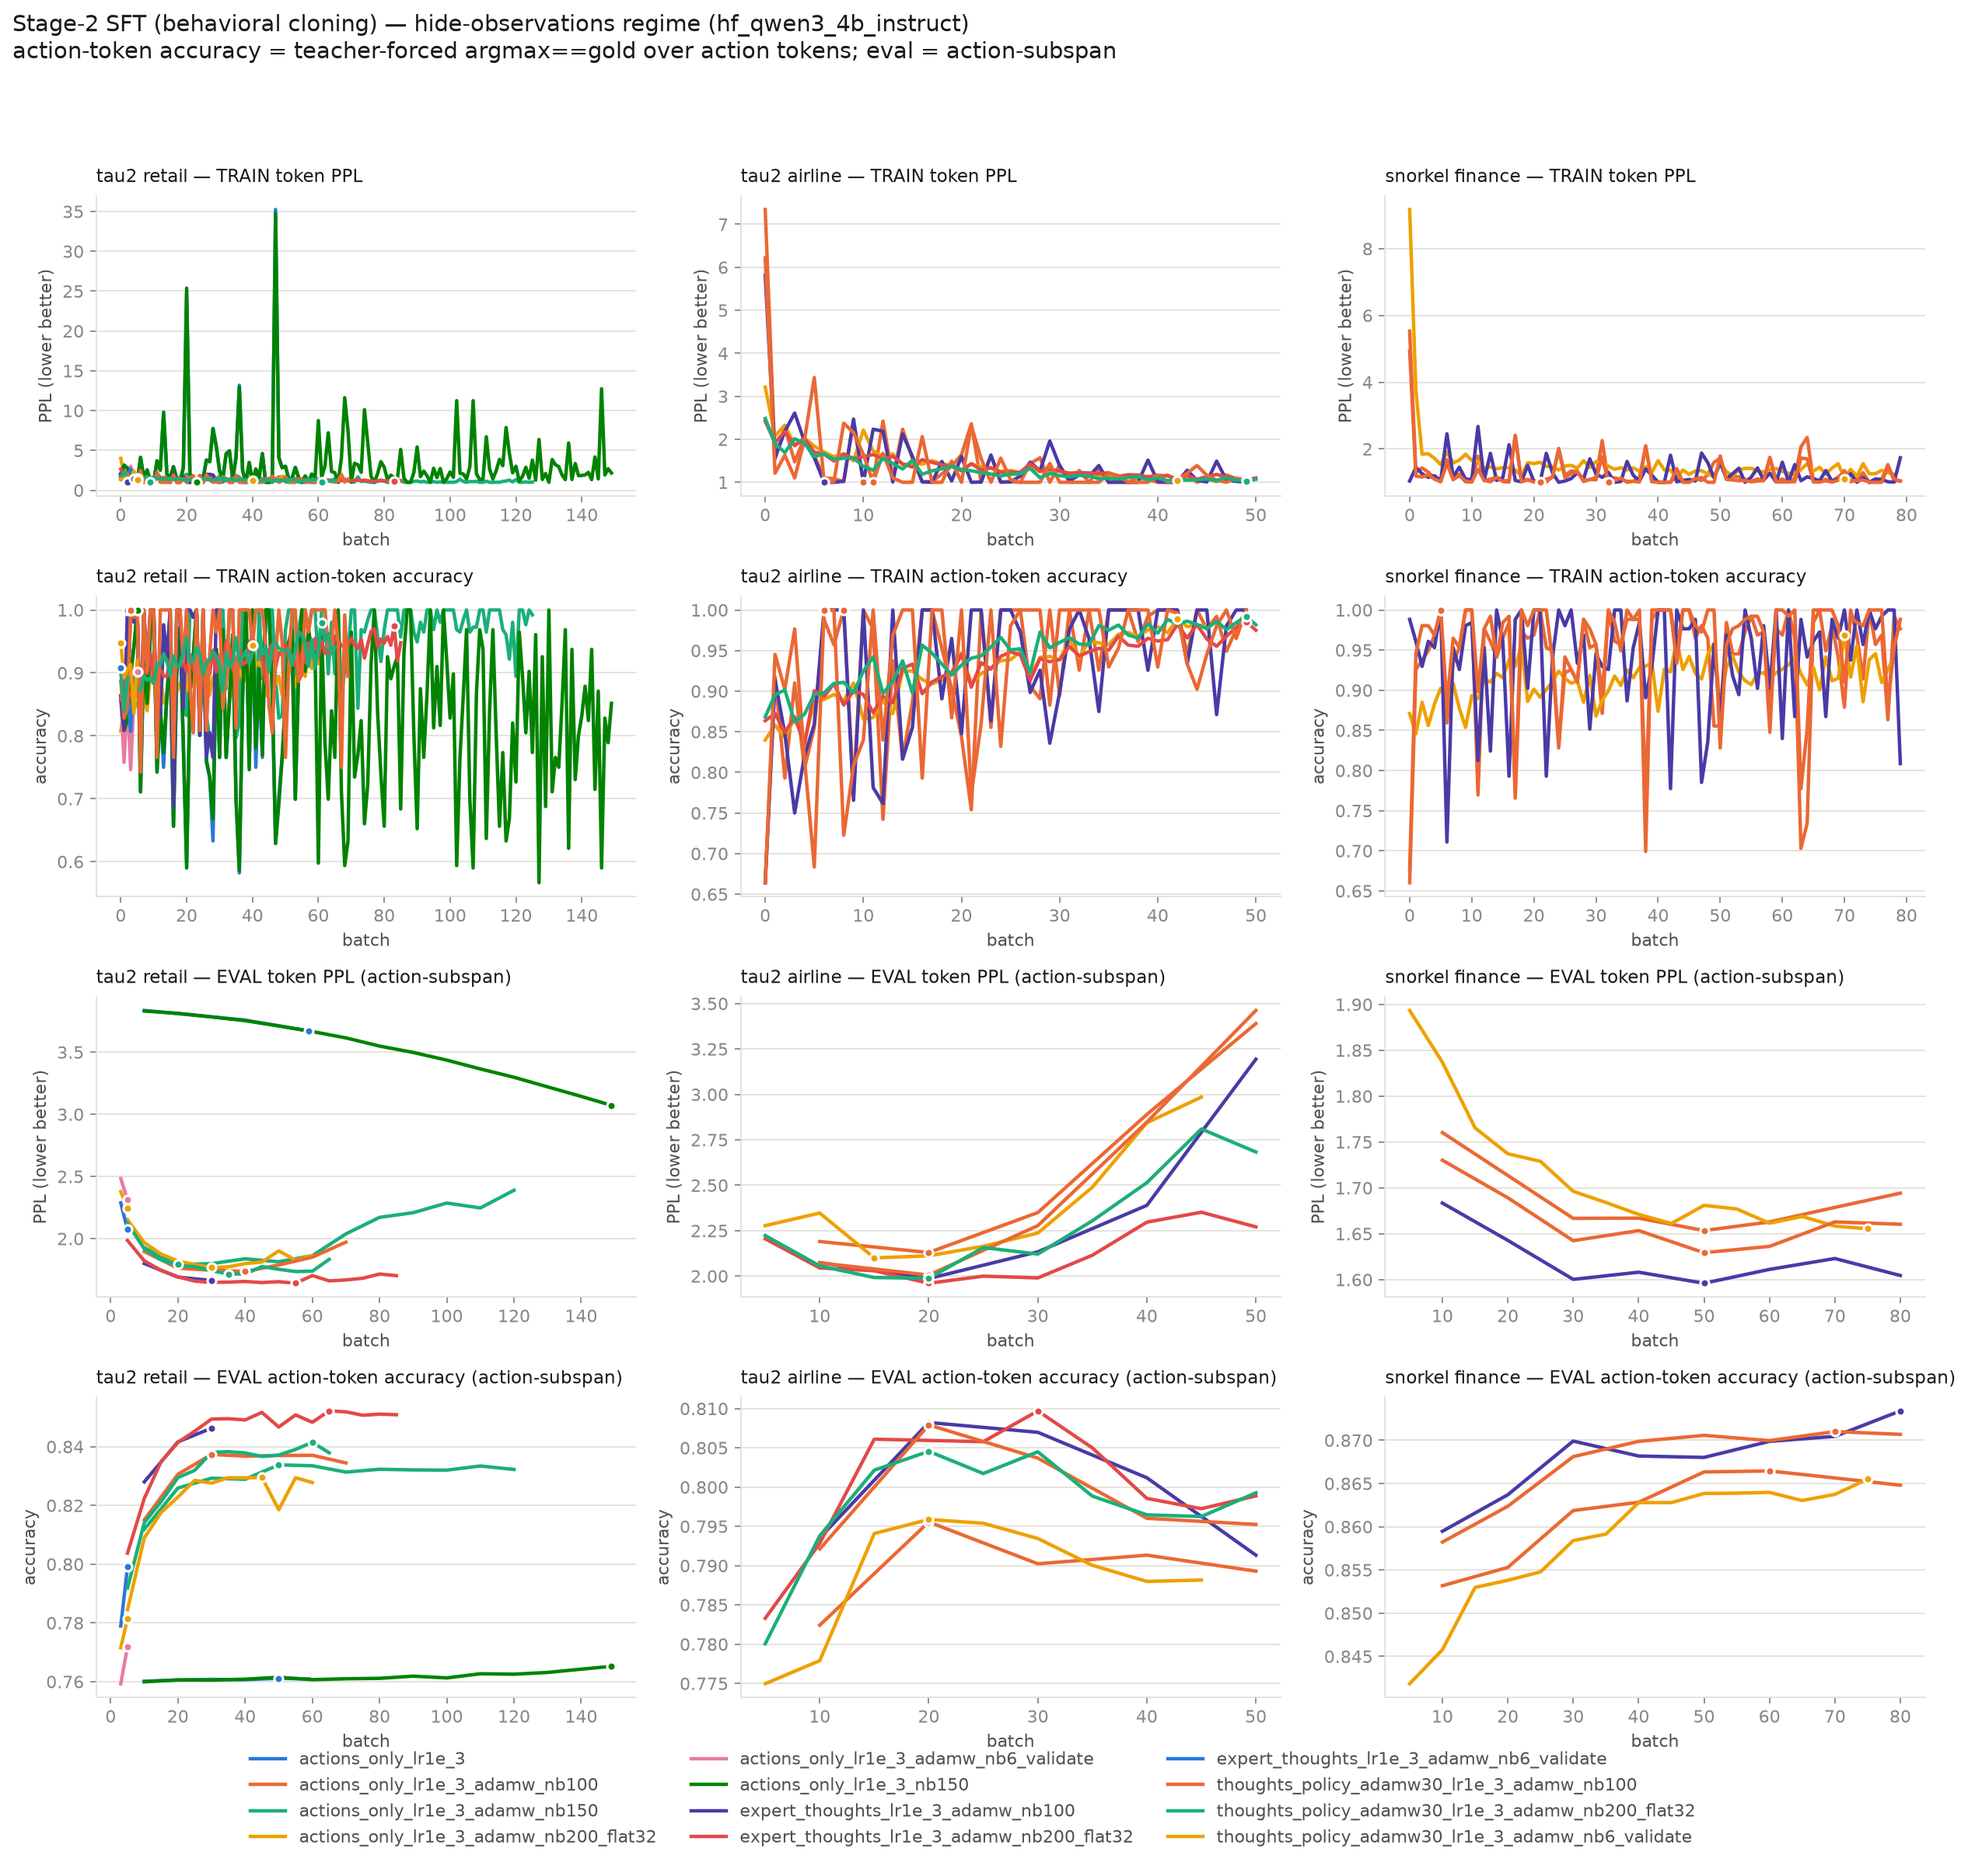
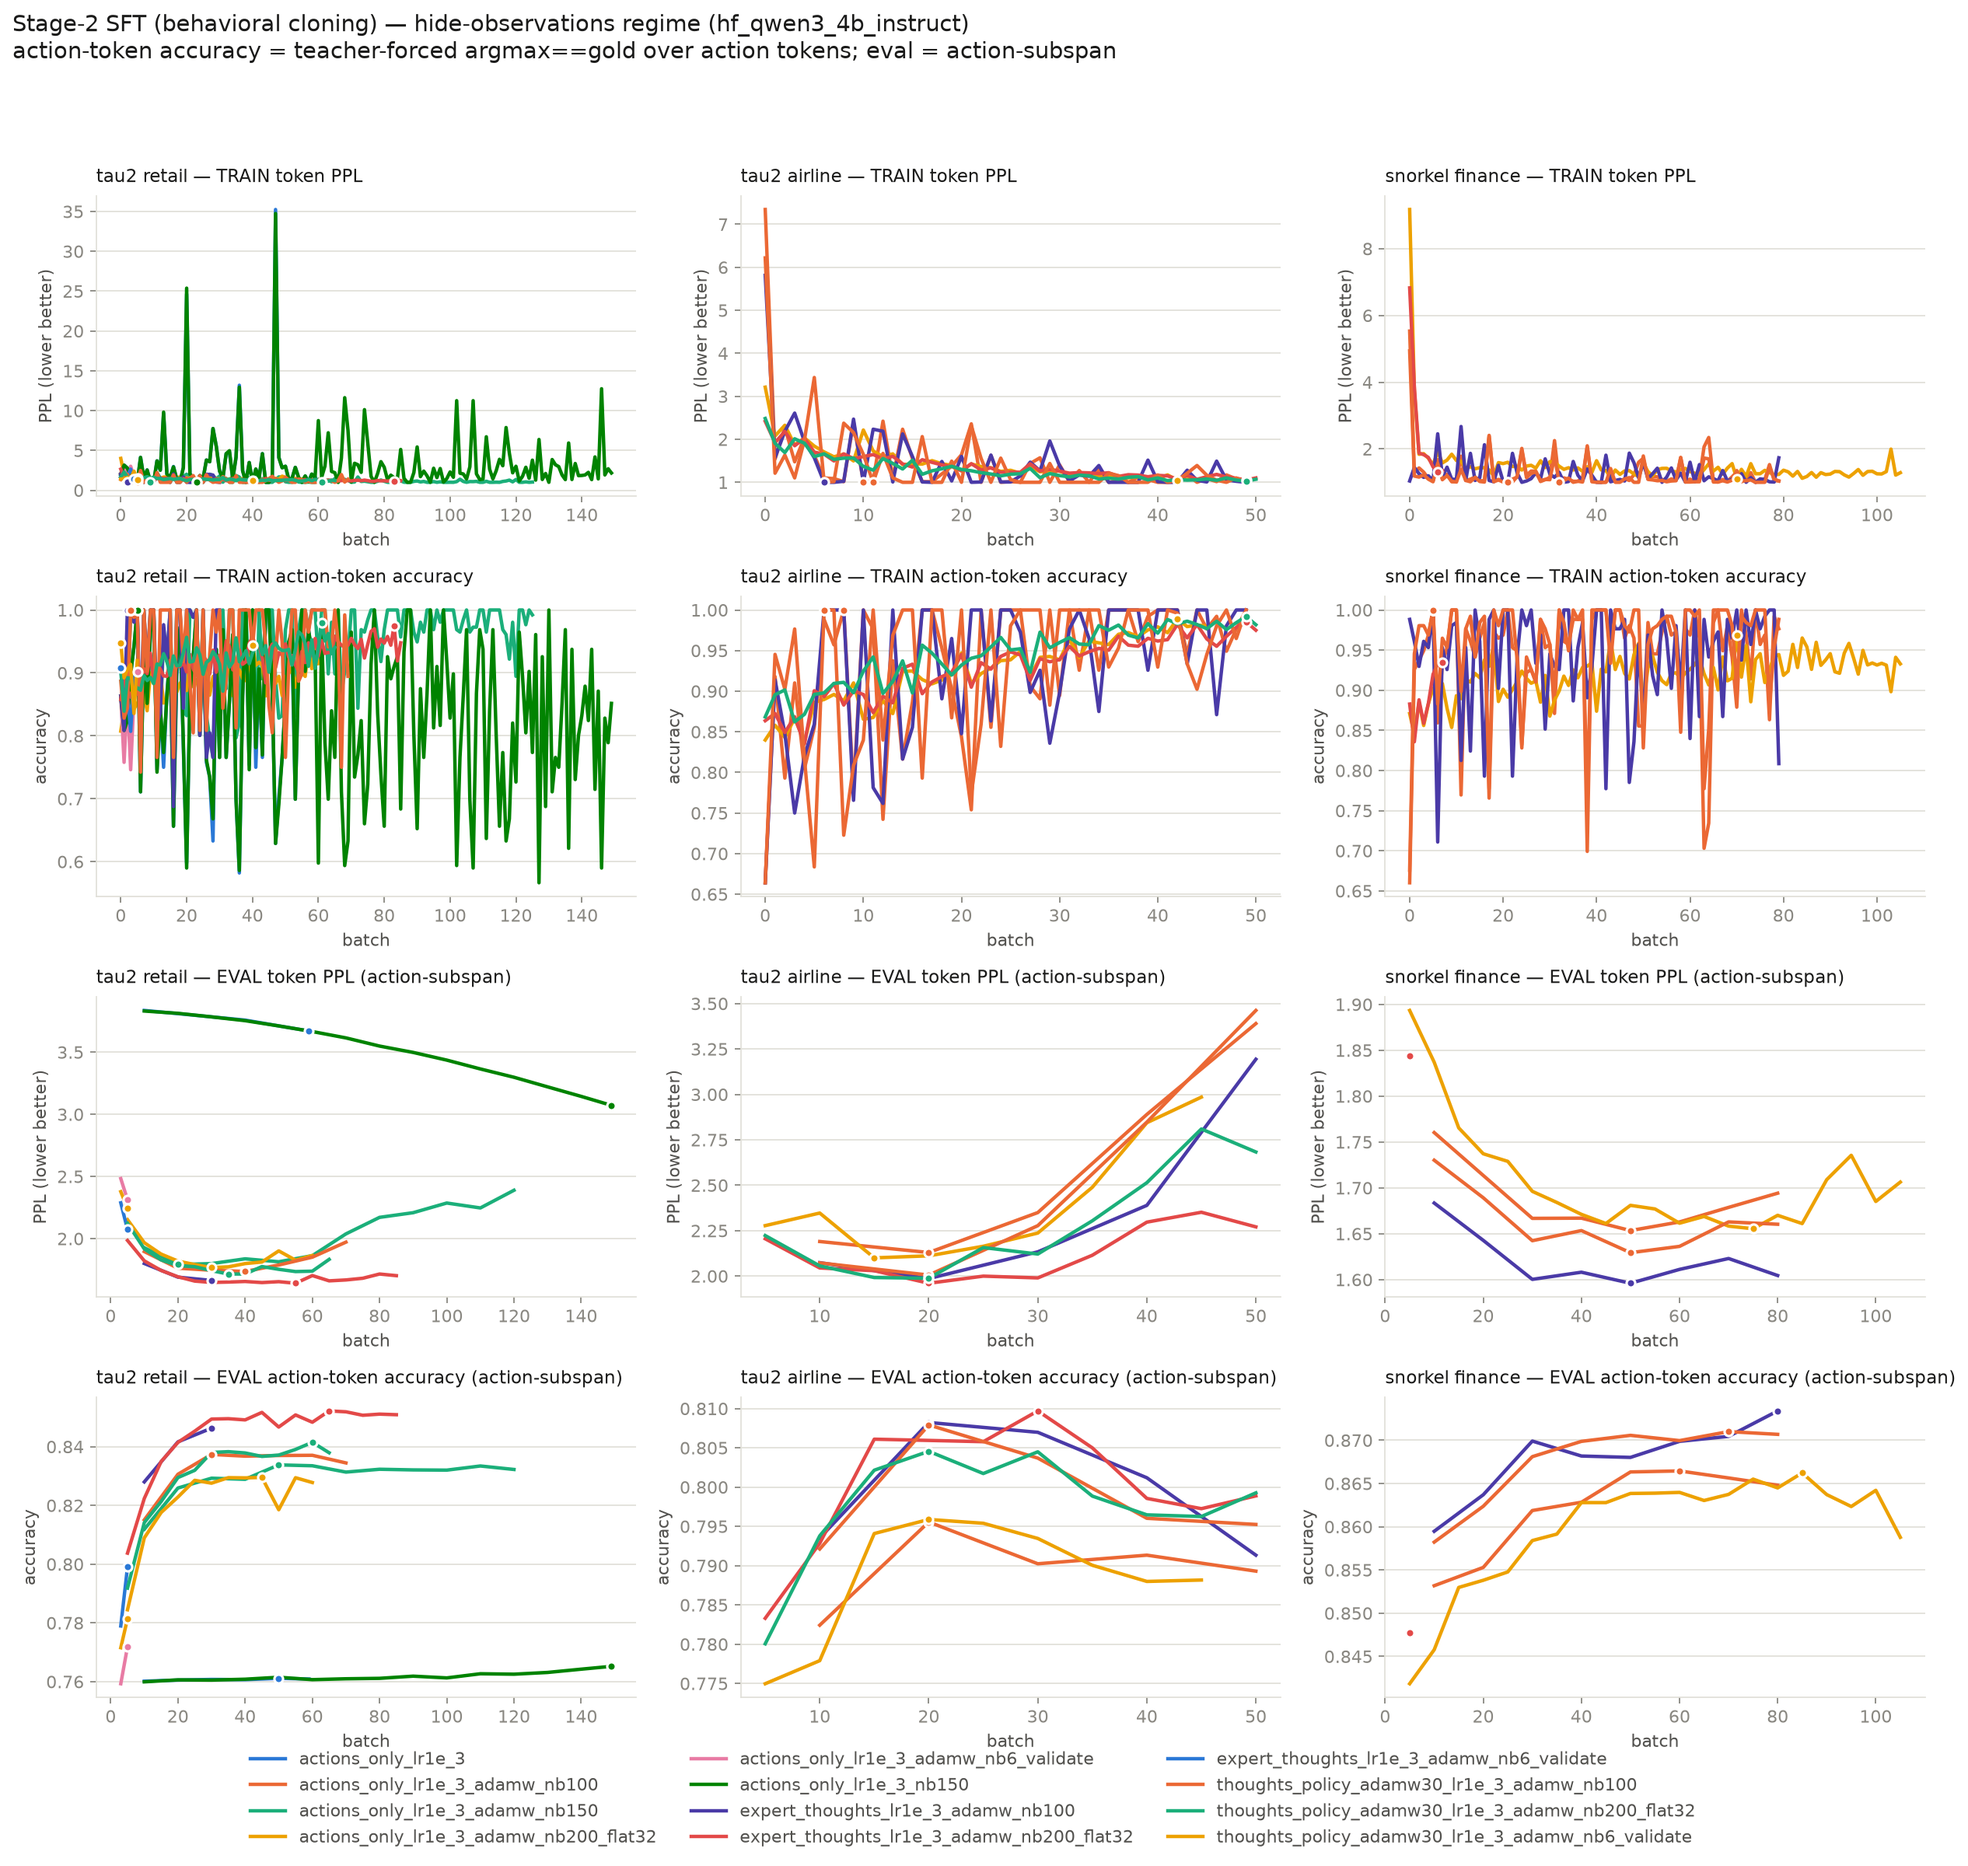
auto: SFT LR sweep results snapshot

diff --git a/notes/cc-3.0-snorkel_finance_split_sft_results.md b/notes/cc-3.0-snorkel_finance_split_sft_results.md
@@ -20,11 +20,12 @@ for wordiness rather than for mispredicting the action, which inverts the rankin
 | thoughts_base | hide | 2.3662 | 0.8491 | 59 | 3.1226 | 0.7746 | 59 | 0.7706 |
 | thoughts_base | full | 2.0637 | 0.8837 | 40 | 2.7097 | 0.8058 | 30 | 0.8326 |
 | actions_only_lr1e_3_adamw_nb100 | hide | 1.6535 | 0.8663 | 50 | 1.6535 | 0.8663 | 50 | 0.0356 |
-| actions_only_lr1e_3_adamw_nb200_flat32 | hide | 1.6554 | 0.8655 | 75 | — | — | — | 0.1882 |
+| actions_only_lr1e_3_adamw_nb200_flat32 | hide | 1.6554 | 0.8655 | 75 | — | — | — | 0.2118 |
 | actions_only_lr3e_3_nb150 | hide | 1.8930 | 0.8398 | 149 | 1.8930 | 0.8398 | 149 | 0.3245 |
 | actions_only_v3_lr3e_3_nb150 | hide | 1.9282 | 0.8407 | 149 | 1.9282 | 0.8407 | 149 | 0.4563 |
 | expert_thoughts_all_v3_lr3e_3_nb150 | hide | 1.9557 | 0.8413 | 149 | 1.9918 | 0.8336 | 149 | 1.5311 |
 | expert_thoughts_lr1e_3_adamw_nb100 | hide | 1.5960 | 0.8680 | 50 | 1.6533 | 0.8571 | 50 | 0.5517 |
+| expert_thoughts_lr1e_3_adamw_nb200_flat32 | hide | 1.8436 | 0.8477 | 5 | — | — | — | 0.3031 |
 | expert_thoughts_lr3e_3_nb150 | hide | 1.8589 | 0.8455 | 149 | 1.9653 | 0.8287 | 149 | 0.5344 |
 | expert_thoughts_v3_lr3e_3_nb150 | hide | 1.9031 | 0.8436 | 149 | 1.9664 | 0.8333 | 149 | 0.4478 |
 | thoughts_base_last | hide | 2.3350 | 0.8504 | 30 | 3.1103 | 0.7747 | 5 | 0.8674 |
@@ -59,6 +60,7 @@ that saved step:
 | actions_only_v3_lr3e_3_nb150 | hide | 1.9282 | 0.8407 |
 | expert_thoughts_all_v3_lr3e_3_nb150 | hide | 1.9557 | 0.8413 |
 | expert_thoughts_lr1e_3_adamw_nb100 | hide | 1.5960 | 0.8680 |
+| expert_thoughts_lr1e_3_adamw_nb200_flat32 | hide | — | — |
 | expert_thoughts_lr3e_3_nb150 | hide | 1.8589 | 0.8455 |
 | expert_thoughts_v3_lr3e_3_nb150 | hide | 1.9031 | 0.8436 |
 | thoughts_base_last | hide | 2.3354 | 0.8505 |

diff --git a/notes/cc-5.0-sft-lr-investigation.md b/notes/cc-5.0-sft-lr-investigation.md
@@ -382,13 +382,14 @@ airline/expert_thoughts_lr1e_3_adamw_nb200_flat32    hide   50     2.2052 ->   2
 airline/thoughts_policy_adamw30_lr1e_3_adamw_nb100   hide   50     2.0724 ->   3.4621 -67.06%  0.7952        1.0000  <running>
 airline/thoughts_policy_adamw30_lr1e_3_adamw_nb200_flat32 hide   50     2.2230 ->   2.6830 -20.69%  0.7993        1.0701  <running>
 snorkel_finance_split/actions_only_lr1e_3_adamw_nb100 hide   80     1.7603 ->   1.6942   3.75%  0.8648        1.0391  <running>
-snorkel_finance_split/actions_only_lr1e_3_adamw_nb200_flat32 hide   78     1.8934 ->   1.6554  12.57%  0.8655        1.2373  <running>
+snorkel_finance_split/actions_only_lr1e_3_adamw_nb200_flat32 hide  105     1.8934 ->   1.7063   9.88%  0.8588        1.2878  <running>
 snorkel_finance_split/expert_thoughts_lr1e_3_adamw_nb100 hide   80     1.6835 ->   1.6045   4.69%  0.8734        1.7344  <running>
+snorkel_finance_split/expert_thoughts_lr1e_3_adamw_nb200_flat32 hide    7     1.8436 ->   1.8436   0.00%  0.8477        1.3472  <running>
 snorkel_finance_split/thoughts_policy_adamw30_lr1e_3_adamw_nb100 hide   80     1.7302 ->   1.6604   4.03%  0.8707        1.0391  <running>
 
-5/22 arms complete   (Δ% = held-out action-subspan PPL improvement, higher is better)
+5/23 arms complete   (Δ% = held-out action-subspan PPL improvement, higher is better)
 ```
-_last refreshed: 2026-08-30 22:00_
+_last refreshed: 2026-08-30 22:20_
 <!--/RESULTS-->
 
 ## Infrastructure
